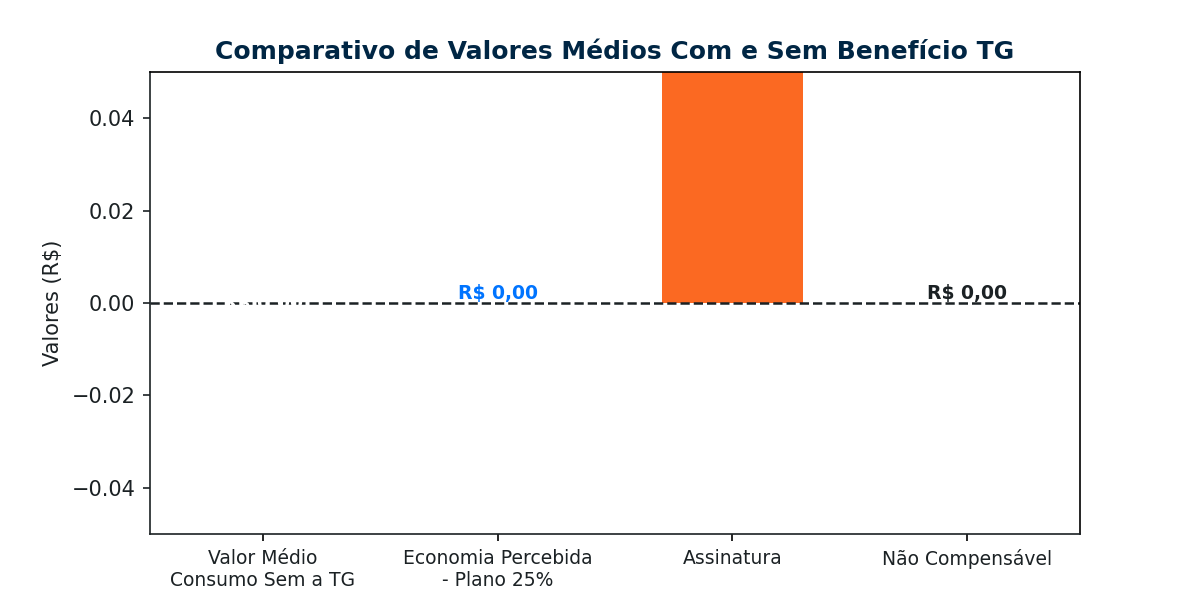
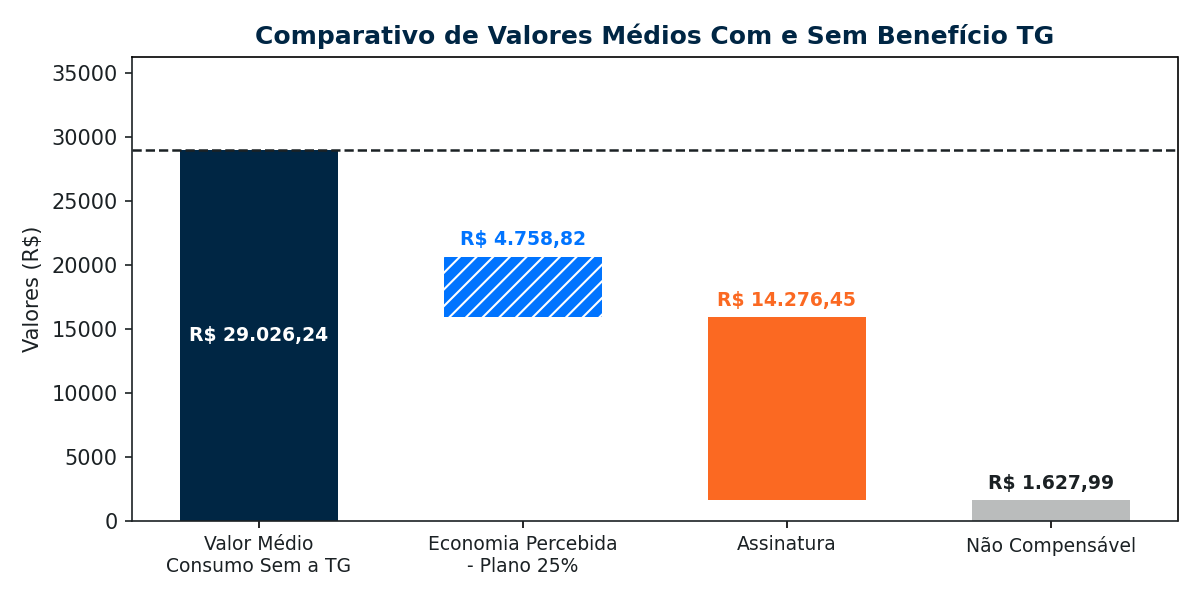
Adicionado metricas de armazenamento dos relatórios de mês em mês. Adicionado o tipo de tratamento de dados de estimativa de retribuição do tipo de parceiro provedor.

Changed region(s): [[0.0, 0.03, 0.9867, 0.99]]

diff --git a/charts/chart_distribuicao_parceiro.py b/charts/chart_distribuicao_parceiro.py
@@ -57,14 +57,14 @@ def gerar_distribuicao_parceiro(finder_name, assinatura, assinatura_fechados=0.0
     # =========================
     if "gold" in finder_lower:
         # Regras GOLD por plano (para FECHADOS):
-        # - Plano 15% -> 30% em Mar/2026
-        # - Plano 20% -> 100% em Mar/2026
-        # - Plano 25% -> 100% em Mar/2026 e 100% em Mar/2027
+        # - Plano 15% -> 30% em Abr/2026
+        # - Plano 20% -> 100% em Abr/2026
+        # - Plano 25% -> 100% em Abr/2026 e 100% em Abr/2027
 
         # Regras ESPECIAIS se o deal tiver INTERN0 no Finder:
-        # - Plano 15% -> 15% Mar/2026
-        # - Plano 85% -> 85% Mar/2026
-        # - Plano 25% -> 85% Mar/2026 e 85% Mar/2027
+        # - Plano 15% -> 15% Abr/2026
+        # - Plano 85% -> 85% Abr/2026
+        # - Plano 25% -> 85% Abr/2026 e 85% Abr/2027
 
         if deals_fechados:
             # Prospecção (mantém comportamento antigo do Gold) - APENAS se assinatura > 0
@@ -115,9 +115,9 @@ def gerar_distribuicao_parceiro(finder_name, assinatura, assinatura_fechados=0.0
     # =========================
     elif "plus" in finder_lower:
         # Regras PLUS por plano (para FECHADOS):
-        # - Plano 15% -> 25% em Mar/2026
-        # - Plano 20% -> 85% em Mar/2026
-        # - Plano 25% -> 85% em Mar/2026 e 85% em Mar/2027
+        # - Plano 15% -> 25% em Abr/2026
+        # - Plano 20% -> 85% em Abr/2026
+        # - Plano 25% -> 85% em Abr/2026 e 85% em Abr/2027
         # (SEM tratamento especial de Interno)
 
         if deals_fechados:
@@ -165,9 +165,9 @@ def gerar_distribuicao_parceiro(finder_name, assinatura, assinatura_fechados=0.0
     # =========================
     elif "indique" in finder_lower:
         # Regras INDIQUE por plano (para FECHADOS):
-        # - Plano 15% -> 15% em Mar/2026
-        # - Plano 20% -> 50% em Mar/2026
-        # - Plano 25% -> 50% em Mar/2026 e 50% em Mar/2027
+        # - Plano 15% -> 15% em Abr/2026
+        # - Plano 20% -> 50% em Abr/2026
+        # - Plano 25% -> 50% em Abr/2026 e 50% em Abr/2027
         # (SEM tratamento especial de Interno)
 
         if deals_fechados:
@@ -342,6 +342,47 @@ def gerar_distribuicao_parceiro(finder_name, assinatura, assinatura_fechados=0.0
                 else:
                     valores[i] = assinatura * 0.02
                     base_vals[i] = assinatura_fechados * 0.02
+
+    # =========================
+    # 6) PROVEDOR
+    # =========================
+    elif "provedor" in finder_lower:
+        # Provedor: aplica percentuais iguais mês a mês de Abr/2026 até Abr/2027
+        if deals_fechados:
+            # Em Prospecção - APENAS se assinatura > 0
+            if assinatura and float(assinatura) > 0:
+                assinatura_val = float(assinatura)
+                if idx_mar_2026 is not None and idx_mar_2027 is not None:
+                    for i in range(idx_mar_2026, idx_mar_2027 + 1):
+                        valores[i] = assinatura_val * 0.035
+
+            for deal in deals_fechados:
+                if not isinstance(deal, dict):
+                    continue
+                deal_assinatura = float(deal.get('assinatura', 0) or 0)
+                plano_label = str(deal.get('plano_assinado', '')).lower()
+                m = re.search(r"(\d+(?:[\.,]\d+)?)", plano_label)
+                perc = float(m.group(1).replace(',', '.')) if m else None
+
+                percentual = 0.035  # default
+                if perc == 15.0:
+                    percentual = 0.025
+                elif perc == 20.0:
+                    percentual = 0.03
+                elif perc == 25.0:
+                    percentual = 0.035
+                elif perc == 30.0:
+                    percentual = 0.035
+
+                if idx_mar_2026 is not None and idx_mar_2027 is not None:
+                    for i in range(idx_mar_2026, idx_mar_2027 + 1):
+                        base_vals[i] += deal_assinatura * percentual
+
+        else:
+            if idx_mar_2026 is not None and idx_mar_2027 is not None:
+                for i in range(idx_mar_2026, idx_mar_2027 + 1):
+                    valores[i] = assinatura * 0.035
+                    base_vals[i] = assinatura_fechados * 0.035
 
     # =========================
     # === Gráfico (colunas clusterizadas por mês) ===

diff --git a/main.py b/main.py
@@ -6,6 +6,7 @@ from reports.pdf_generator import generate_pdf
 from config import API_TOKEN, PIPELINE_PROSPECCAO, FILTER_PROSPECCAO, PIPELINE_FECHADOS, FILTER_FECHADOS, CUSTOM_FIELD_KEYS
 from collections import defaultdict
 import os
+import datetime
 
 def main():
     deals_by_finder, deals_prospeccao = analyze_deals_in_pipeline(
@@ -19,8 +20,14 @@ def main():
         print("Nenhum negócio encontrado.")
         return
 
-    os.makedirs(r'C:\Users\Matheus\Documents\MeusProgramasPy\data_partners_request\child_files', exist_ok=True)
-    os.makedirs(r'C:\Users\Matheus\Documents\MeusProgramasPy\data_partners_request\mother_files', exist_ok=True)
+    base_path = r'C:\Users\Matheus\Documents\MeusProgramasPy\data_partners_request'
+    current_month = datetime.datetime.now().month
+    current_year = datetime.datetime.now().year
+    version_folder = f"{current_month}.{current_year}"
+    child_path = os.path.join(base_path, 'child_files', version_folder)
+    mother_path = os.path.join(base_path, 'mother_files', version_folder)
+    os.makedirs(child_path, exist_ok=True)
+    os.makedirs(mother_path, exist_ok=True)
 
     # --- PDFs por Finder (child_files) ---
     # Itera sobre a UNIÃO de finders de ambos os pipelines (PROSPECCAO + FECHADOS)
@@ -52,7 +59,7 @@ def main():
             deals_fechados.get(finder_name, []),
             assinatura_fechados_val,
             finder_id,
-            pasta_saida=r'C:\Users\Matheus\Documents\MeusProgramasPy\data_partners_request\child_files'
+            pasta_saida=child_path
         )
 
     # --- Agregação por Categoria (mother_files) ---
@@ -87,7 +94,7 @@ def main():
             categoria_fechados[categoria],
             assinatura_fechados_val,
             "N/A",
-            pasta_saida=r'C:\Users\Matheus\Documents\MeusProgramasPy\data_partners_request\mother_files'
+            pasta_saida=mother_path
         )
 
 if __name__ == "__main__":

diff --git a/reports/pdf_generator.py b/reports/pdf_generator.py
@@ -64,6 +64,31 @@ def calcular_comissao_deal(finder_name, deal):
             comissao = deal_assinatura * 1.02
         else:
             comissao = deal_assinatura * 1.02
+    elif "provedor" in finder_lower:
+        if perc == 15.0:
+            comissao = deal_assinatura * 0.025
+        elif perc == 20.0:
+            comissao = deal_assinatura * 0.030
+        elif perc == 25.0:
+            comissao = deal_assinatura * 0.035
+        elif perc == 28.0:
+            comissao = deal_assinatura * 0.035
+        elif perc == 30.0:
+            comissao = deal_assinatura * 0.035
+        else:
+            # Para plano "Outro", buscar 'Beneficio Estimado'
+            if plano_label == "Outro":
+                beneficio_estimado = deal.get('Beneficio Estimado')
+                if beneficio_estimado:
+                    try:
+                        perc_beneficio = float(str(beneficio_estimado).replace(',', '.')) / 100
+                        comissao = deal_assinatura * perc_beneficio
+                    except ValueError:
+                        comissao = 0.0
+                else:
+                    comissao = 0.0
+            else:
+                comissao = deal_assinatura * 0.035  # default
     return comissao
 
 

diff --git a/config.py b/config.py
@@ -15,5 +15,6 @@ CUSTOM_FIELD_KEYS = {
     'Data de Alteração de Funil' : 'bc6e85bfd61a7f514b65fbf8d1f3a7bacefc7f56',
     'Negócio Criado em' : 'add_time',
     'Plano Assinado' : 'fae8184ad9ee4befb23365ad84e47c76e03c6f71',
-    'Data de Assinatura' : '6aa88ec119316d071ba4d6f48fcdd921877b0baf'
+    'Data de Assinatura' : '6aa88ec119316d071ba4d6f48fcdd921877b0baf',
+    'Beneficio Estimado' : 'ef1347fdba636ead88f61566f8def53cddbe8cec'
 }
